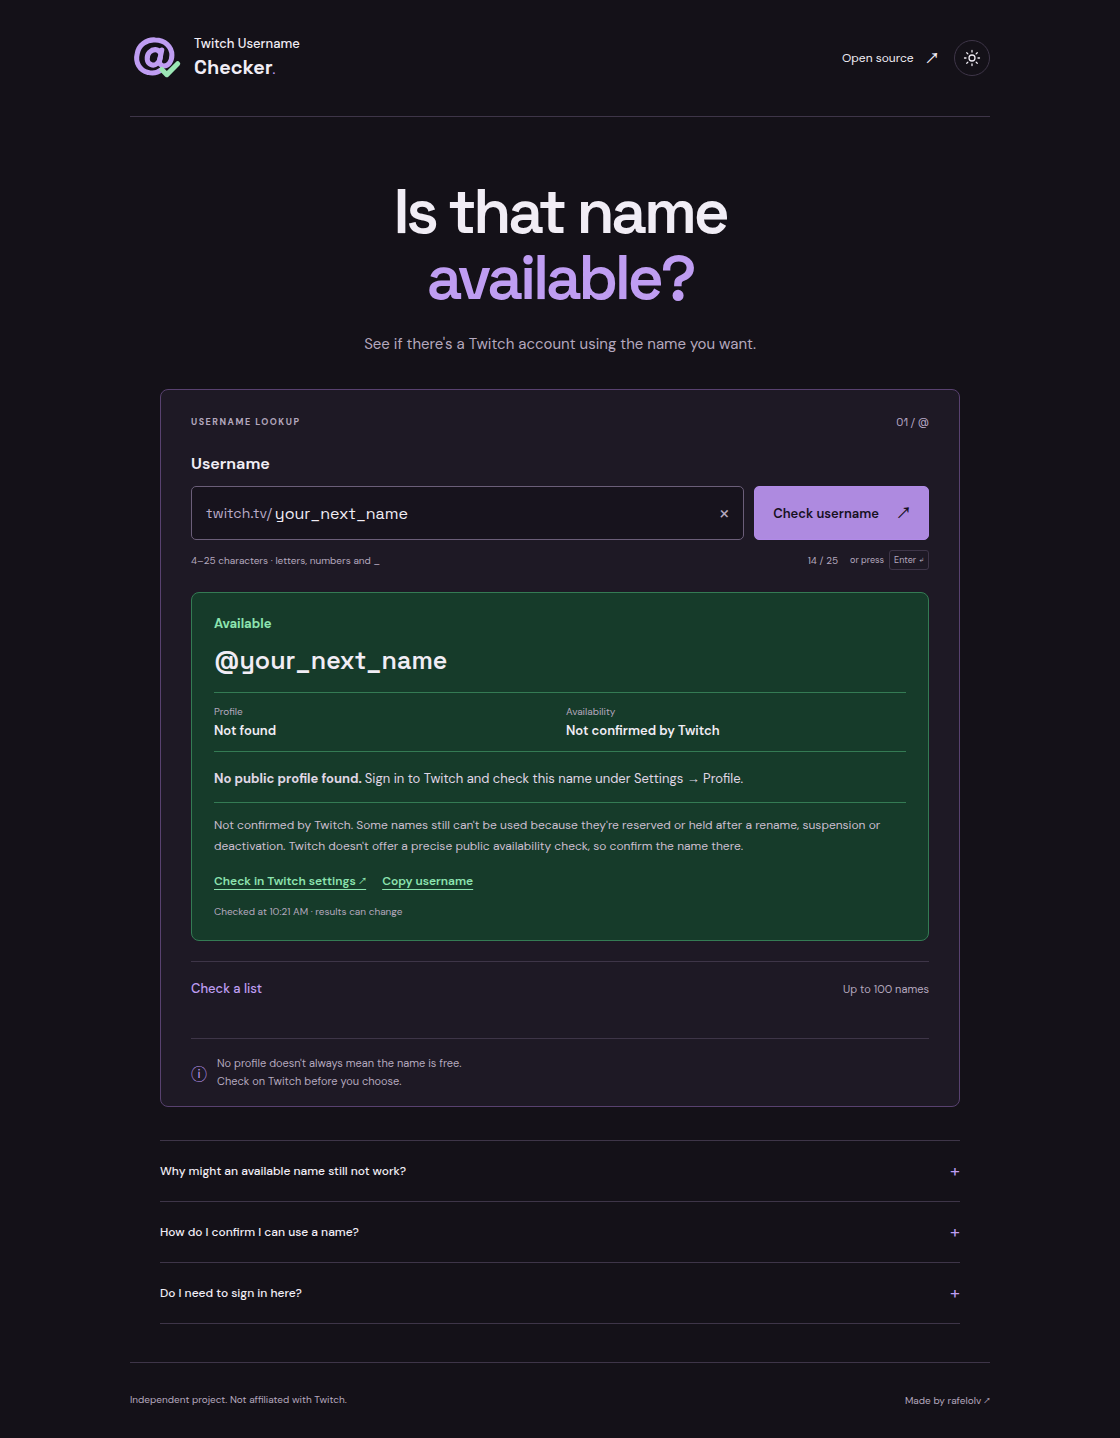
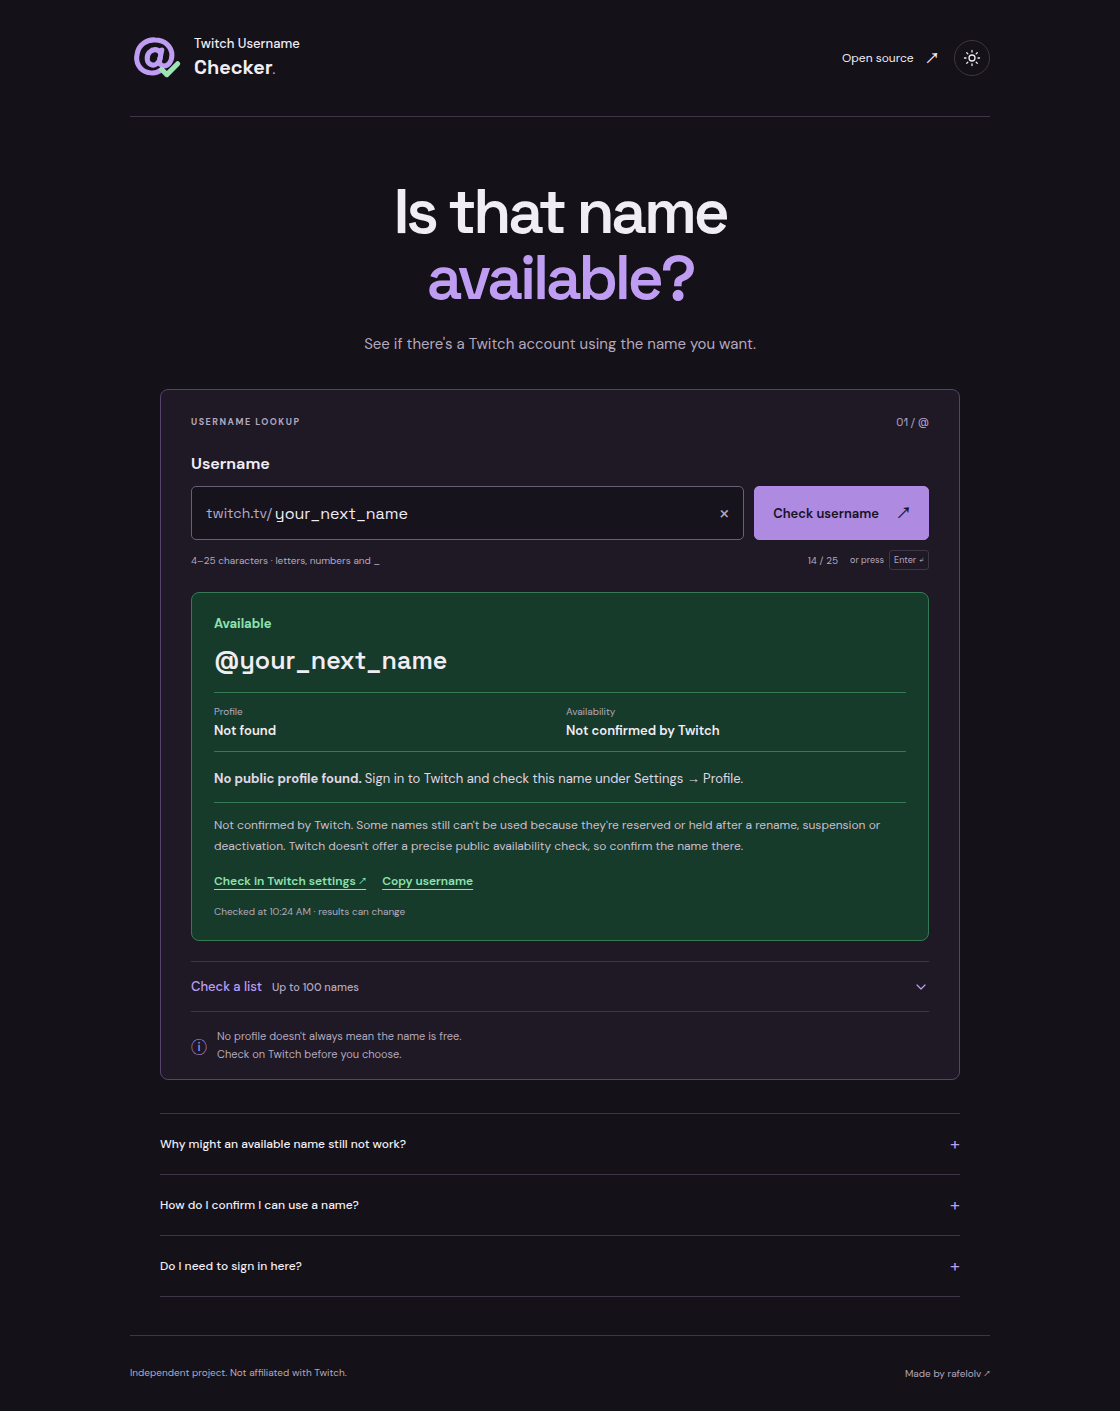
style: align the list disclosure header

diff --git a/index.html b/index.html
@@ -153,7 +153,24 @@
         ></div>
         <details class="list-checker" id="list-checker">
           <summary>
-            Check a list <span class="list-limit">Up to 100 names</span>
+            <span class="list-summary-copy"
+              ><span>Check a list</span
+              ><span class="list-limit">Up to 100 names</span></span
+            >
+            <svg
+              class="list-chevron"
+              width="16"
+              height="16"
+              viewBox="0 0 24 24"
+              fill="none"
+              stroke="currentColor"
+              stroke-width="1.8"
+              stroke-linecap="round"
+              stroke-linejoin="round"
+              aria-hidden="true"
+            >
+              <path d="m6 9 6 6 6-6" />
+            </svg>
           </summary>
           <form id="list-form" novalidate>
             <label for="usernames">Usernames</label>

diff --git a/styles.css b/styles.css
@@ -662,6 +662,26 @@ details a {
 .list-checker summary {
   color: var(--purple);
   font-size: 13px;
+  padding-block: 16px;
+  gap: 12px;
+}
+.list-checker summary .list-summary-copy {
+  display: flex;
+  flex-wrap: wrap;
+  align-items: baseline;
+  gap: 4px 10px;
+  font: inherit;
+  color: inherit;
+  transform: none;
+}
+.list-chevron {
+  flex-shrink: 0;
+}
+.list-checker[open] .list-chevron {
+  transform: rotate(180deg);
+}
+.list-checker:not([open]) + .card-note {
+  margin-top: 0;
 }
 .list-checker summary .list-limit {
   color: var(--muted);

diff --git a/docs/VALIDATION.md b/docs/VALIDATION.md
@@ -296,3 +296,13 @@ Limitations:
   No live 100-name scan was run. Twitch may limit or refuse subsequent requests;
   the queue stops and leaves remaining names unchecked. Hosted deployment is a
   separate check after pushing.
+
+
+## 1.3.1 list disclosure spacing — 2026-10-17
+
+- `npm run check` passes. Temporary Chrome profile: verified keyboard expansion
+  and collapse, aligned label/limit, the collapsed row's compact spacing, and no
+  horizontal overflow at 320px in light and dark themes. Inspected the screenshot
+  and refreshed both README previews.
+- Lookup responses were mocked for the preview; request behavior is unchanged.
+  No new live Twitch checks were needed for this layout change.

diff --git a/CHANGELOG.md b/CHANGELOG.md
@@ -3,6 +3,10 @@
 Versions follow three-part semver; `package.json` is the version source.
 Entries remain Unreleased until publication is verified.
 
+## 1.3.1
+
+- Align the list label and limit together, add an expand arrow and remove excess collapsed spacing.
+
 ## 1.3.0
 
 - Add an optional list check for up to 100 names, with sequential results and a stop button.
